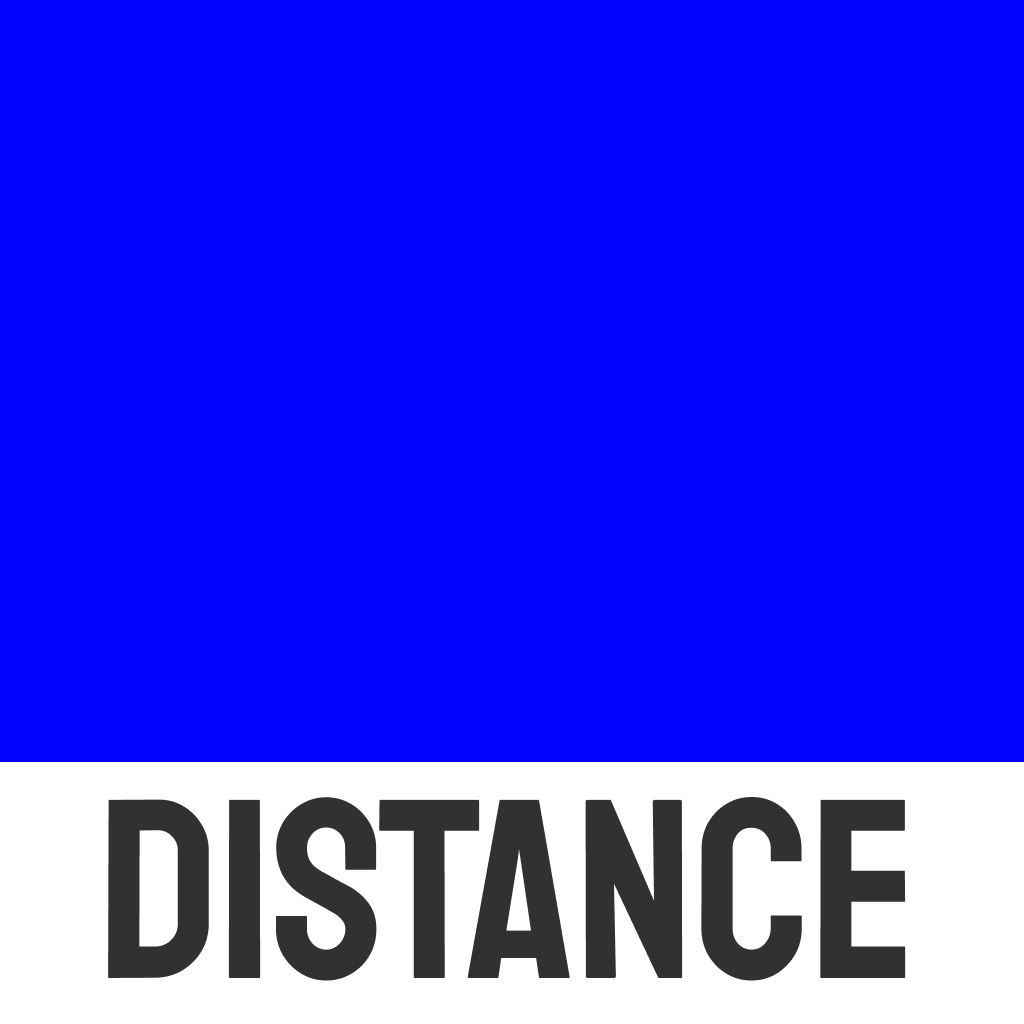
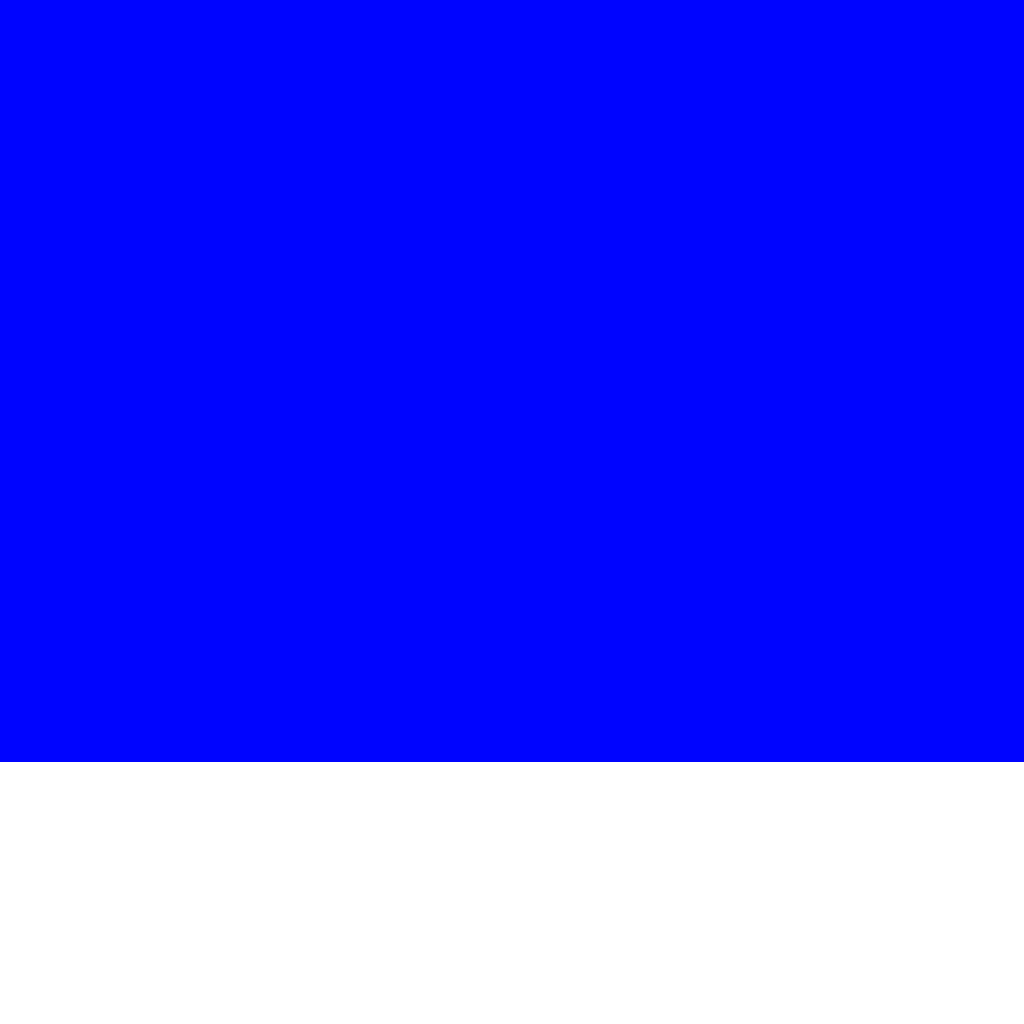
Distance sign: plate printed per distance (SignTex), weathered with real scans + mud, retroreflective paint, Wood035 stick

Changed region(s): [[0.0938, 0.7812, 0.9062, 0.9688]]

diff --git a/godot/HANDOFF.md b/godot/HANDOFF.md
@@ -714,11 +714,17 @@ Tests: `BMX_BODY=holdback` (`SPIN` lines), `BMX_BODY=spin360` (`YAW` lines; air-
   ring's water), a third ring to push the 20 m backdrop further out, geomorphing instead of dithering, not measured on a slow GPU.
 - **Sponsor props** (`TrailCourse.chunk_gates` / `chunk_boards`, fixed spacing by centreline index so growing never moves them): a huge steel gantry with a sponsor banner over the trail every 300 m (`TrailGate.build`, made-up brands in `TrailGate.SPONSORS`, no collision, skipped on jumps) and breakable wooden roadside billboards every ~80 m (fence-style panel in `TerrainChunkBuilder._boards`, so the bike smashes them; the Label3D text is freed on smash). Probe: `BMX_GATE_PROBE=1`.
 
-- **Distance signs** (`TerrainChunkBuilder._dist_signs`, at 1 km then every 5 km, smashable): a plain square stick (`pole`) with a thin
-  printed plate on its front (`signboard`, `TerrainGeo._sign_board`: the design on +Z, `shaders/sign_board.gdshader`). The plate texture
-  `assets/signs/distance_board.png` = the Figma "table sign" (file qDRfS2eOv3e3e9wO1u8W5e, node 39:74): blue field + the DISTANCE strip
-  exported from node 39:75 at 2x; the km number is a Label3D on the blue field (Barlow Black; the design's number font is Iosevka
-  Charon Bold, not in the game). Re-export the strip from Figma when the design changes. Find one: `BMX_GATE_PROBE=1` prints `DISTSIGN`.
+- **Distance signs** (`TerrainChunkBuilder._dist_signs`, at 1 km then every 5 km, smashable): a square wooden stick (`pole`,
+  `shaders/sign_pole.gdshader`, ambientCG Wood035 scan in `assets/textures/wood_post`, CC0, grain up the post, muddy foot) with a
+  thin plate bolted to its front. The plate is its own mesh per sign (`Terrain._panel_labels`, `panel["plate"]`) whose texture is
+  printed once per distance by `world/sign_tex.gd` (`SignTex.material(km)`: a 512 px SubViewport read back with mipmaps, cached):
+  the Figma "table sign" layout (file qDRfS2eOv3e3e9wO1u8W5e, node 39:74: blue field, white strip), the number in Barlow Condensed
+  Black, DISTANCE in tracked-out Barlow Black. `shaders/sign_board.gdshader` weathers it per sign (seeded by place): real scans
+  for the paint (grime_dirt / grime_normal = SurfaceImperfections008, lens_dirt.png R = Smear004 smears, G = SurfaceImperfections001
+  scuffs through to bare metal), sun fade, chipped edges, a dent, mud flung up from the bottom; and retroreflection in its
+  `light()`: the paint sends light back towards the light (`retro` 6, the sun only `retro_sun` 0.12), so a bike lamp at night
+  makes it blaze (not yet checked in a night shot). `wear` 0 = mint. Find one: `BMX_GATE_PROBE=1` prints `DISTSIGN`; seed 4242's
+  1 km sign is at x 767, z 70.5 (`BMX_TRAIL_FEAT=x740 BMX_PHOTO=7 BMX_PHOTO_AT=765.6,43,70.5,766.99,43,70.54`).
 
 - **Health packs** (`world/health_pack.gd`): a GTA-style floating, spinning red backpack with a white cross and a glow ring, one outside the door of each roadside shed (`TerrainChunkBuilder._sheds` -> `out["packs"]`, made in `Terrain._finalize`). Ride within 1.6 m (`Terrain.take_pack`, called from `Game._process`) and `hud.on_health_pack` gives back `HealthPack.HEAL` (45 %); full-health riders leave it. Taken ones stay gone until a new seed. Tests: `BMX_PACK_PROBE=1` (`PACK at` lines), `BMX_PACK_SPAWN=x,z` (start 9 m before a pack), `BMX_LIFE=0.3 BMX_LIFE_PROBE=1`.
 
